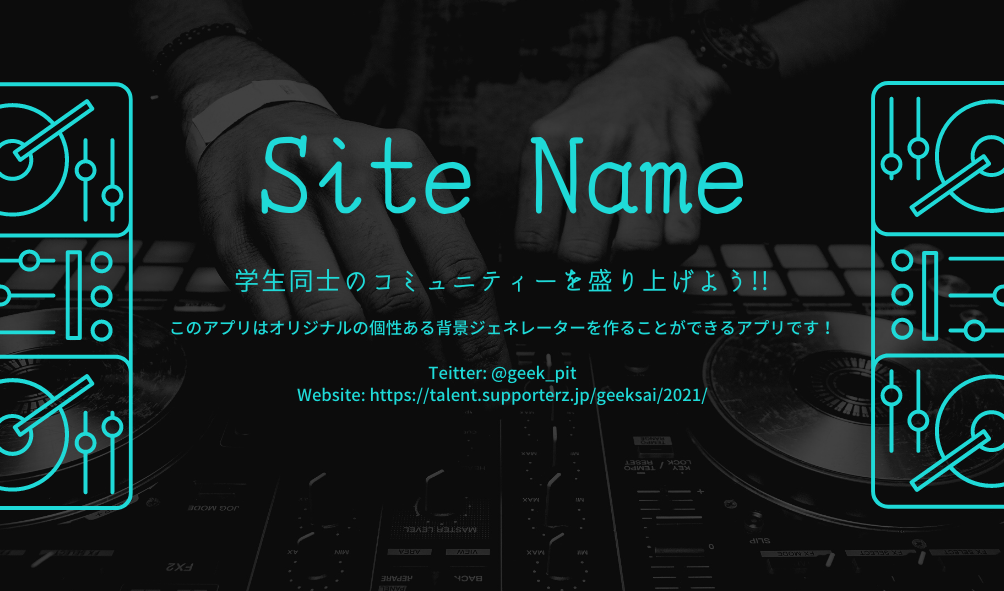
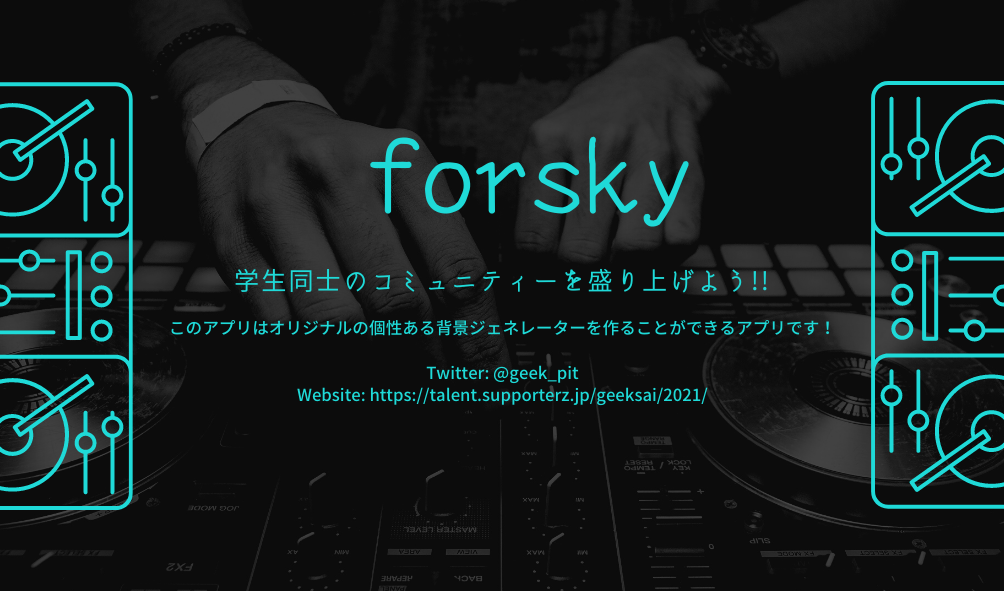
fix: site name

Changed region(s): [[0.247, 0.2132, 0.741, 0.3959], [0.4323, 0.6091, 0.5867, 0.6701], [0.3705, 0.2132, 0.4323, 0.2741]]

diff --git a/components/Header.js b/components/Header.js
@@ -31,7 +31,7 @@ export default function ButtonAppBar() {
       >
         <Toolbar>
           <Typography variant="h6" className={classes.title}>
-            Site Name
+            forsky
           </Typography>
           <Link href="/">
             <Button>
